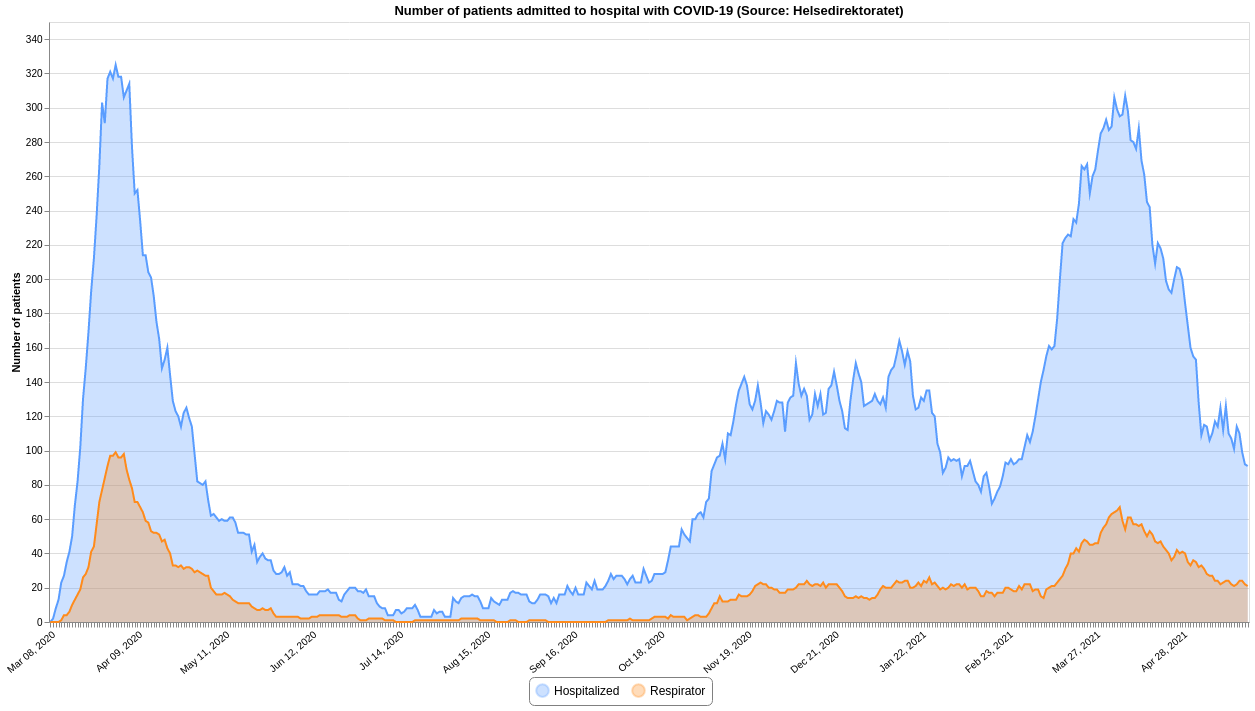
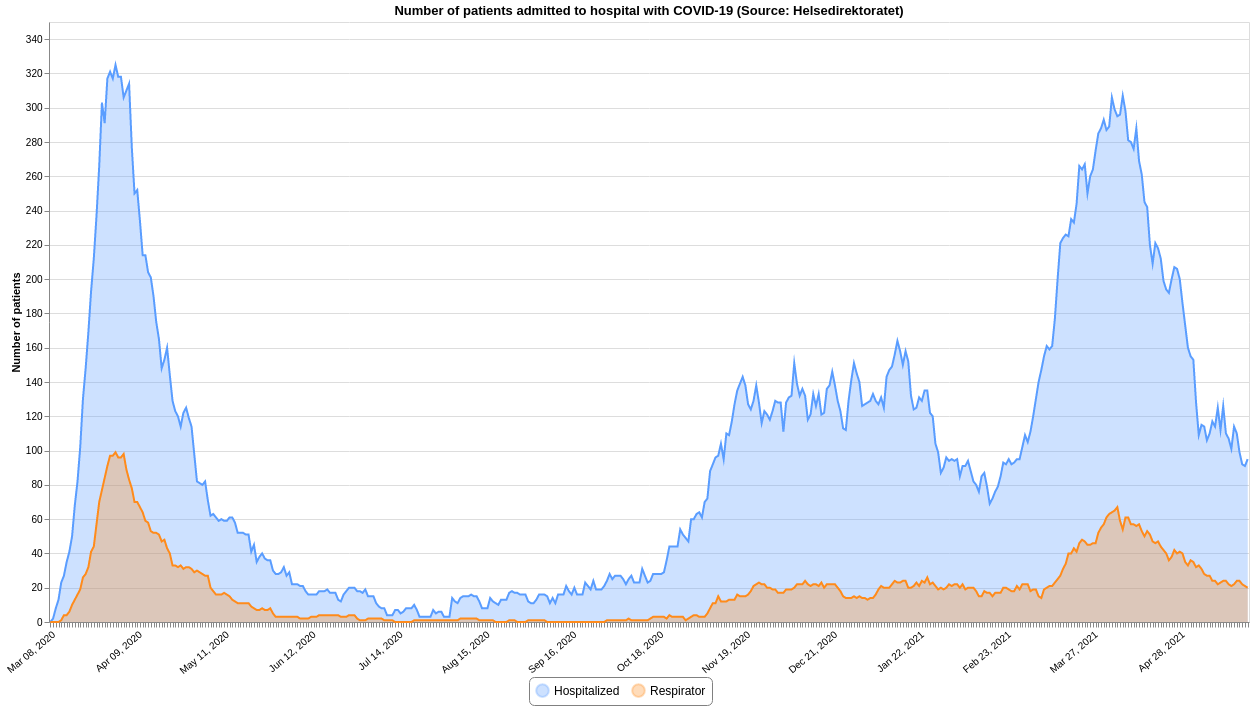
Updated 2021-05-23 12:21

diff --git a/README.md b/README.md
@@ -12,7 +12,7 @@ This repository contains datasets of daily time-series data related to COVID-19 
 | :--- | :--- | :--- | :--- | :--- |
 |[Confirmed](#confirmedcsv)|FHI / MSIS|2021-05-23 00:10:44+02:00|[<center>csv</center>](https://raw.githubusercontent.com/frefrik/c19norge-data/main/data/confirmed.csv)|[<center>preview</center>](data/confirmed.csv)|
 |[Dead](#deadcsv)|FHI|2021-05-21 13:20:51+02:00|[<center>csv</center>](https://raw.githubusercontent.com/frefrik/c19norge-data/main/data/dead.csv)|[<center>preview</center>](data/dead.csv)|
-|[Hospitalized](#hospitalizedcsv)|Helsedirektoratet|2021-05-22 11:50:47+02:00|[<center>csv</center>](https://raw.githubusercontent.com/frefrik/c19norge-data/main/data/hospitalized.csv)|[<center>preview</center>](data/hospitalized.csv)|
+|[Hospitalized](#hospitalizedcsv)|Helsedirektoratet|2021-05-23 12:20:49+02:00|[<center>csv</center>](https://raw.githubusercontent.com/frefrik/c19norge-data/main/data/hospitalized.csv)|[<center>preview</center>](data/hospitalized.csv)|
 |[Tested](#testedcsv)|FHI|2021-05-21 13:00:54+02:00|[<center>csv</center>](https://raw.githubusercontent.com/frefrik/c19norge-data/main/data/tested.csv)|[<center>preview</center>](data/tested.csv)|
 |[Tested Lab](#tested_labcsv)|FHI|2021-05-21 13:20:47+02:00|[<center>csv</center>](https://raw.githubusercontent.com/frefrik/c19norge-data/main/data/tested_lab.csv)|[<center>preview</center>](data/tested_lab.csv)|
 |[Transport](#transportcsv)|FHI|2021-05-22 18:50:45+02:00|[<center>csv</center>](https://raw.githubusercontent.com/frefrik/c19norge-data/main/data/transport.csv)|[<center>preview</center>](data/transport.csv)|
